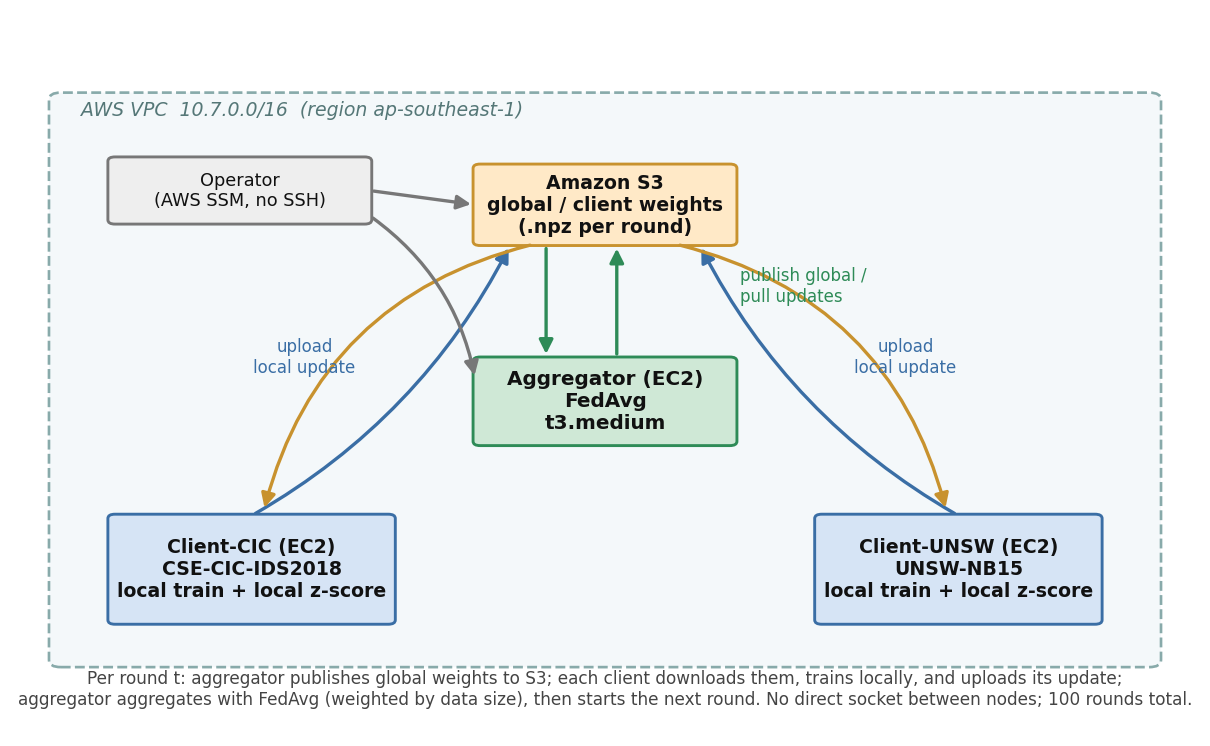
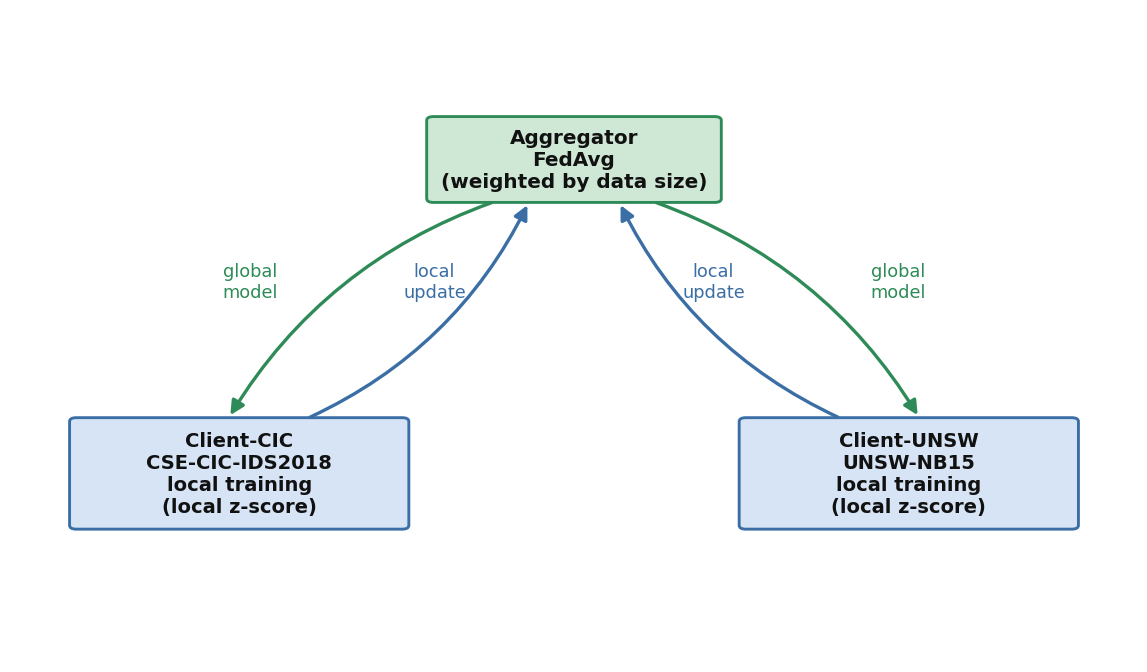
paper-survey: simplify architecture figure to core FL model (drop S3/operator/in-figure flow text)
Figure now shows only aggregator + 2 clients with global-model/local-update arrows. Moved S3/EC2/SSM operational details and per-round flow into the paragraph text; clarified local training + local z-score meaning.

Changed region(s): [[0.0305, 0.125, 0.9459, 0.8438], [0.0, 0.875, 0.9765, 0.9688], [0.061, 0.2188, 0.0915, 0.2812]]

diff --git a/federated/make_survey_figures.py b/federated/make_survey_figures.py
@@ -33,64 +33,37 @@ def _arrow(ax, p0, p1, color="#333", style="-|>", lw=1.5, rad=0.0):
 
 
 def fig_architecture():
-    """Testbed architecture: 1 aggregator + 2 clients, weights via S3, SSM access."""
-    fig, ax = plt.subplots(figsize=(9.5, 5.8))
+    """Core FL model: 1 aggregator + 2 clients exchanging weights (FedAvg)."""
+    fig, ax = plt.subplots(figsize=(9.0, 5.2))
     ax.set_xlim(0, 10)
     ax.set_ylim(0, 10)
     ax.axis("off")
 
-    # VPC boundary
-    ax.add_patch(FancyBboxPatch((0.3, 0.9), 9.4, 8.0,
-                                boxstyle="round,pad=0.02,rounding_size=0.1",
-                                linewidth=1.2, edgecolor="#8aa", facecolor="#f4f8fa",
-                                linestyle="--"))
-    ax.text(0.55, 8.6, "AWS VPC  10.7.0.0/16  (region ap-southeast-1)",
-            fontsize=8.5, color="#577", style="italic")
+    # Aggregator - center top
+    _box(ax, 3.7, 7.1, 2.6, 1.3, "Aggregator\nFedAvg\n(weighted by data size)",
+         "#cfe8d6", ec="#2e8b57", fs=9, bold=True)
 
-    # S3 (weight exchange hub) - center top
-    _box(ax, 3.9, 6.8, 2.2, 1.1, "Amazon S3\nglobal / client weights\n(.npz per round)",
-         "#ffe9c7", ec="#c8922e", fs=8.5, bold=True)
+    # Client CIC - bottom left
+    _box(ax, 0.5, 2.0, 3.0, 1.7,
+         "Client-CIC\nCSE-CIC-IDS2018\nlocal training\n(local z-score)", "#d6e4f5",
+         ec="#3a6ea5", fs=8.8, bold=True)
+    # Client UNSW - bottom right
+    _box(ax, 6.5, 2.0, 3.0, 1.7,
+         "Client-UNSW\nUNSW-NB15\nlocal training\n(local z-score)", "#d6e4f5",
+         ec="#3a6ea5", fs=8.8, bold=True)
 
-    # Aggregator - center
-    _box(ax, 3.9, 4.0, 2.2, 1.2, "Aggregator (EC2)\nFedAvg\nt3.medium", "#cfe8d6",
-         ec="#2e8b57", fs=9, bold=True)
+    # aggregator -> client (send global model)
+    _arrow(ax, (4.3, 7.1), (1.9, 3.7), color="#2e8b57", rad=0.18)
+    _arrow(ax, (5.7, 7.1), (8.1, 3.7), color="#2e8b57", rad=-0.18)
+    # client -> aggregator (send local update)
+    _arrow(ax, (2.6, 3.7), (4.6, 7.1), color="#3a6ea5", rad=0.18)
+    _arrow(ax, (7.4, 3.7), (5.4, 7.1), color="#3a6ea5", rad=-0.18)
 
-    # Client CIC - left
-    _box(ax, 0.8, 1.5, 2.4, 1.5,
-         "Client-CIC (EC2)\nCSE-CIC-IDS2018\nlocal train + local z-score", "#d6e4f5",
-         ec="#3a6ea5", fs=8.5, bold=True)
-    # Client UNSW - right
-    _box(ax, 6.8, 1.5, 2.4, 1.5,
-         "Client-UNSW (EC2)\nUNSW-NB15\nlocal train + local z-score", "#d6e4f5",
-         ec="#3a6ea5", fs=8.5, bold=True)
-
-    # arrows: clients -> S3 (upload updates) and S3 -> clients (download global)
-    _arrow(ax, (2.0, 3.0), (4.2, 6.8), color="#3a6ea5", rad=0.15)
-    _arrow(ax, (8.0, 3.0), (5.8, 6.8), color="#3a6ea5", rad=-0.15)
-    _arrow(ax, (4.4, 6.8), (2.1, 3.05), color="#c8922e", rad=0.30)
-    _arrow(ax, (5.6, 6.8), (7.9, 3.05), color="#c8922e", rad=-0.30)
-
-    # aggregator <-> S3
-    _arrow(ax, (5.1, 5.2), (5.1, 6.8), color="#2e8b57")
-    _arrow(ax, (4.5, 6.8), (4.5, 5.2), color="#2e8b57")
-
-    # labels
-    ax.text(2.45, 5.0, "upload\nlocal update", fontsize=7.5, color="#3a6ea5", ha="center")
-    ax.text(7.55, 5.0, "upload\nlocal update", fontsize=7.5, color="#3a6ea5", ha="center")
-    ax.text(6.15, 6.0, "publish global /\npull updates", fontsize=7.5,
-            color="#2e8b57", ha="left")
-
-    # operator via SSM (no public inbound)
-    _box(ax, 0.8, 7.1, 2.2, 0.9, "Operator\n(AWS SSM, no SSH)", "#eeeeee", ec="#777", fs=8)
-    _arrow(ax, (3.0, 7.55), (3.9, 7.35), color="#777")
-    _arrow(ax, (3.0, 7.2), (3.9, 4.9), color="#777", rad=-0.2)
-
-    ax.text(5.0, 0.3,
-            "Per round t: aggregator publishes global weights to S3; each client "
-            "downloads them, trains locally, and uploads its update;\naggregator "
-            "aggregates with FedAvg (weighted by data size), then starts the next "
-            "round. No direct socket between nodes; 100 rounds total.",
-            ha="center", va="bottom", fontsize=7.6, color="#444")
+    # edge labels
+    ax.text(2.1, 5.6, "global\nmodel", fontsize=8, color="#2e8b57", ha="center")
+    ax.text(3.75, 5.6, "local\nupdate", fontsize=8, color="#3a6ea5", ha="center")
+    ax.text(7.9, 5.6, "global\nmodel", fontsize=8, color="#2e8b57", ha="center")
+    ax.text(6.25, 5.6, "local\nupdate", fontsize=8, color="#3a6ea5", ha="center")
 
     fig.savefig(os.path.join(FIG, "fig_fl_architecture.png"))
     plt.close(fig)

diff --git a/federated/paper-survey.md b/federated/paper-survey.md
@@ -307,33 +307,30 @@ pelengkap yang dapat direproduksi.
 
 ### 4.1 Rancangan testbed
 
-Arsitektur federasi yang kami bangun terdiri atas **tiga server EC2 nyata** (tipe
-`t3.medium`) di dalam satu VPC AWS (`10.7.0.0/16`, region `ap-southeast-1`): satu
+Arsitektur federasi yang kami bangun mengikuti pola horizontal cross-silo dengan satu
 **aggregator** dan dua **client**, masing-masing memegang satu dataset—Client-CIC
-untuk CSE-CIC-IDS2018 dan Client-UNSW untuk UNSW-NB15. Berbeda dari implementasi FL
-yang membuka soket langsung antar-node, pertukaran bobot pada testbed ini dilakukan
-melalui **Amazon S3** sebagai hub: tidak ada koneksi masuk publik ke instance, dan
-akses operator hanya lewat AWS Systems Manager (SSM). Rancangan ini membuat teardown
-cukup dengan menghapus satu stack CloudFormation (biaya nol setelahnya) dan membuat
-seluruh lalu lintas model dapat diaudit sebagai objek S3.
+untuk CSE-CIC-IDS2018 dan Client-UNSW untuk UNSW-NB15 (Gambar 1). Setiap client
+melatih model pada datanya **sendiri** tanpa pernah mengirim data mentah; yang
+dipertukarkan hanyalah bobot model. Normalisasi fitur (z-score) juga dihitung **lokal
+per-client** memakai statistik masing-masing, sehingga tidak ada statistik data yang
+bocor antar-client—menjaga prinsip privasi FL.
 
-Aliran proses per ronde mengikuti FedAvg standar (Gambar~\ref{fig:arch}). Pada ronde
-$t$, aggregator mempublikasikan bobot global ke S3; kedua client mengunduhnya, melatih
-model secara lokal pada datanya sendiri (dengan z-score **lokal per-client** sehingga
-statistik mentah tidak pernah dibagikan), lalu mengunggah pembaruan bobotnya kembali
-ke S3; aggregator menunggu kedua pembaruan, menggabungkannya dengan FedAvg (rata-rata
-berbobot ukuran data), lalu memulai ronde berikutnya. Siklus ini diulang selama 100
-ronde hingga menghasilkan `global_final.npz`. Karena tidak ada soket langsung
-antar-node, komunikasi sepenuhnya termediasi S3—desain yang sekaligus menyederhanakan
-keamanan jaringan dan memudahkan pencatatan biaya komunikasi (R4).
+Aliran proses per ronde mengikuti FedAvg standar. Pada tiap ronde, aggregator
+mengirimkan model global ke kedua client; setiap client melatihnya secara lokal lalu
+mengembalikan pembaruan bobotnya; aggregator menggabungkan kedua pembaruan dengan
+FedAvg (rata-rata berbobot ukuran data) untuk membentuk model global ronde berikutnya.
+Siklus ini diulang selama 100 ronde. Pada realisasinya, ketiga simpul dijalankan
+sebagai tiga instans EC2 `t3.medium` dan pertukaran bobot dimediasi melalui Amazon S3
+(tanpa soket langsung antar-node), tetapi detail infrastruktur ini bersifat
+operasional dan tidak mengubah model FL itu sendiri; pengukuran biaya komunikasinya
+dilaporkan pada R4.
 
-![Arsitektur testbed FL: satu aggregator dan dua client (CIC, UNSW) bertukar bobot
-melalui S3; akses operator via SSM.](figure-fed/fig_fl_architecture.png)
+![Arsitektur federated learning: satu aggregator (FedAvg) dan dua client (CIC, UNSW)
+yang bertukar model global dan pembaruan lokal.](figure-fed/fig_fl_architecture.png)
 
-*Gambar 1. Arsitektur federated learning yang dibangun pada testbed AWS: satu
-aggregator dan dua client (Client-CIC, Client-UNSW) saling bertukar bobot per ronde
-melalui Amazon S3, tanpa soket langsung antar-node; operator mengakses instance hanya
-melalui SSM.*
+*Gambar 1. Arsitektur federated learning yang dibangun: satu aggregator (FedAvg) dan
+dua client (Client-CIC, Client-UNSW). Tiap ronde, aggregator mengirim model global,
+tiap client melatih lokal pada datanya sendiri lalu mengembalikan pembaruan bobot.*
 
 - **Topologi**: 1 agregator + K client (K=2 untuk cross-dataset; K=4–10 untuk partisi
   non-IID per-dataset); 3 EC2 publik nyata, transport bobot via S3, akses via SSM.
